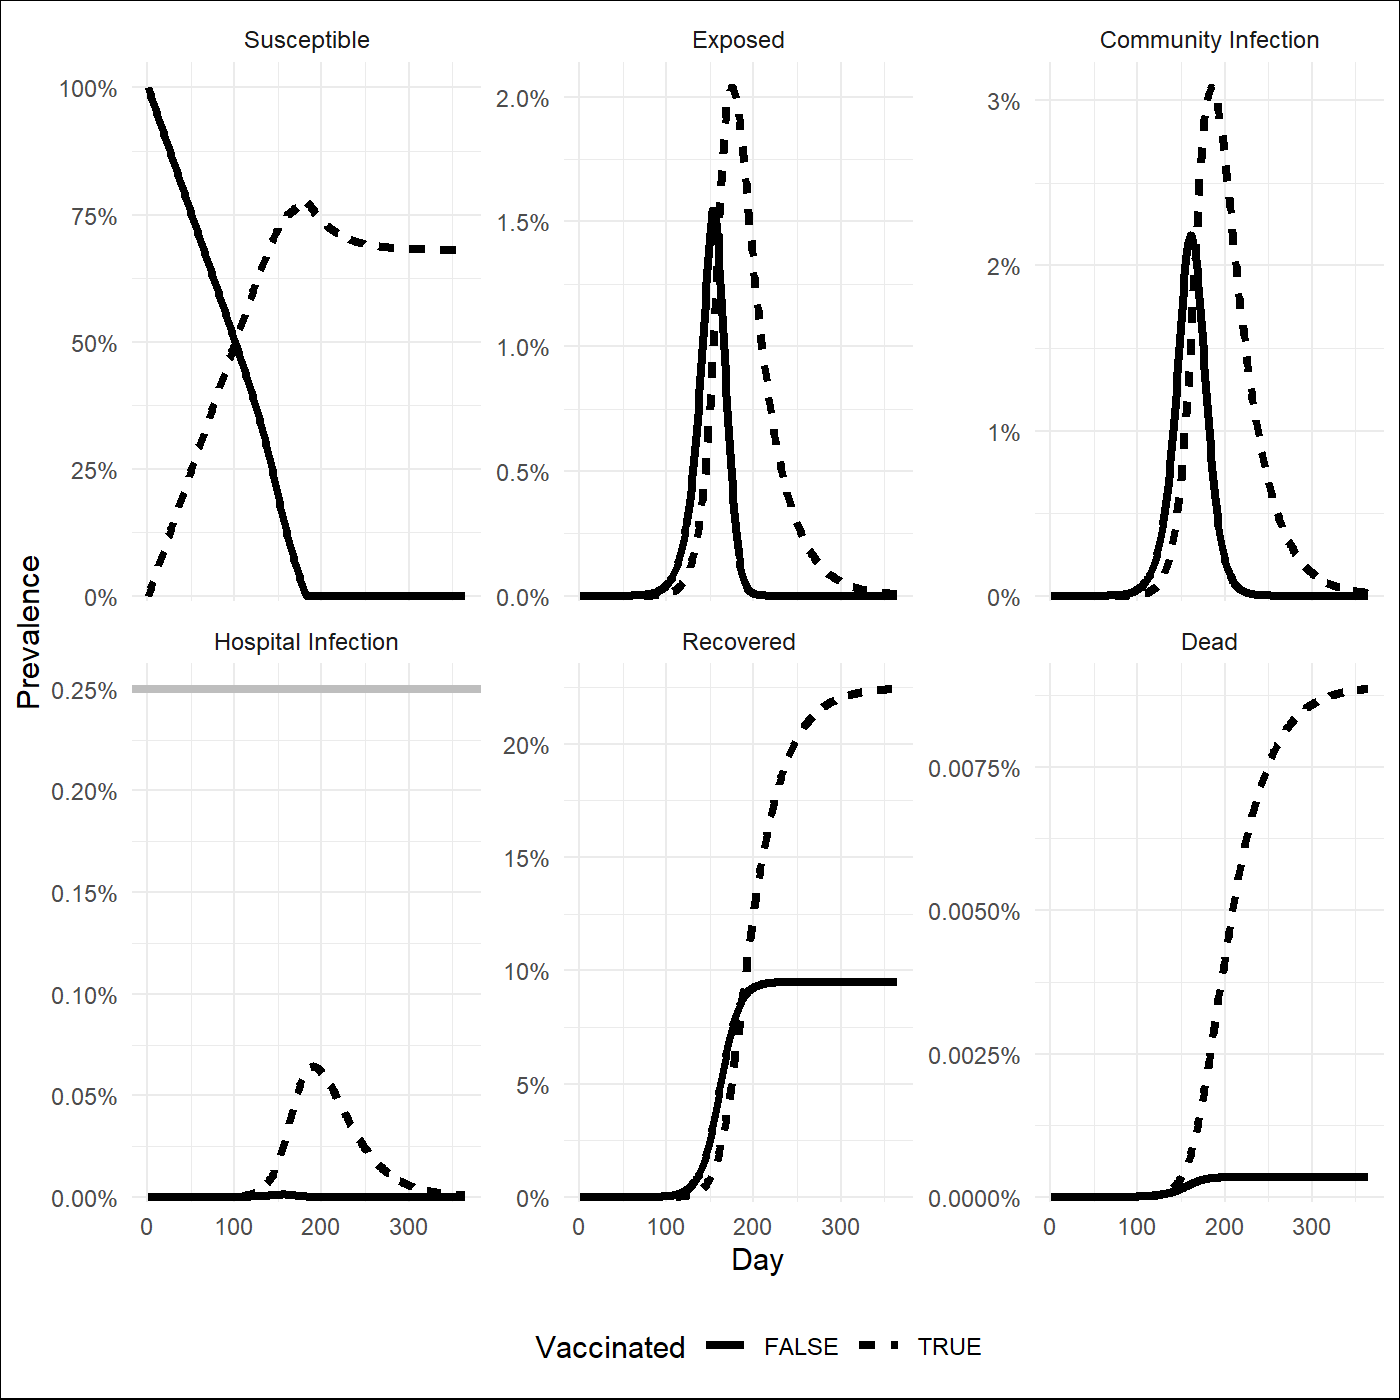
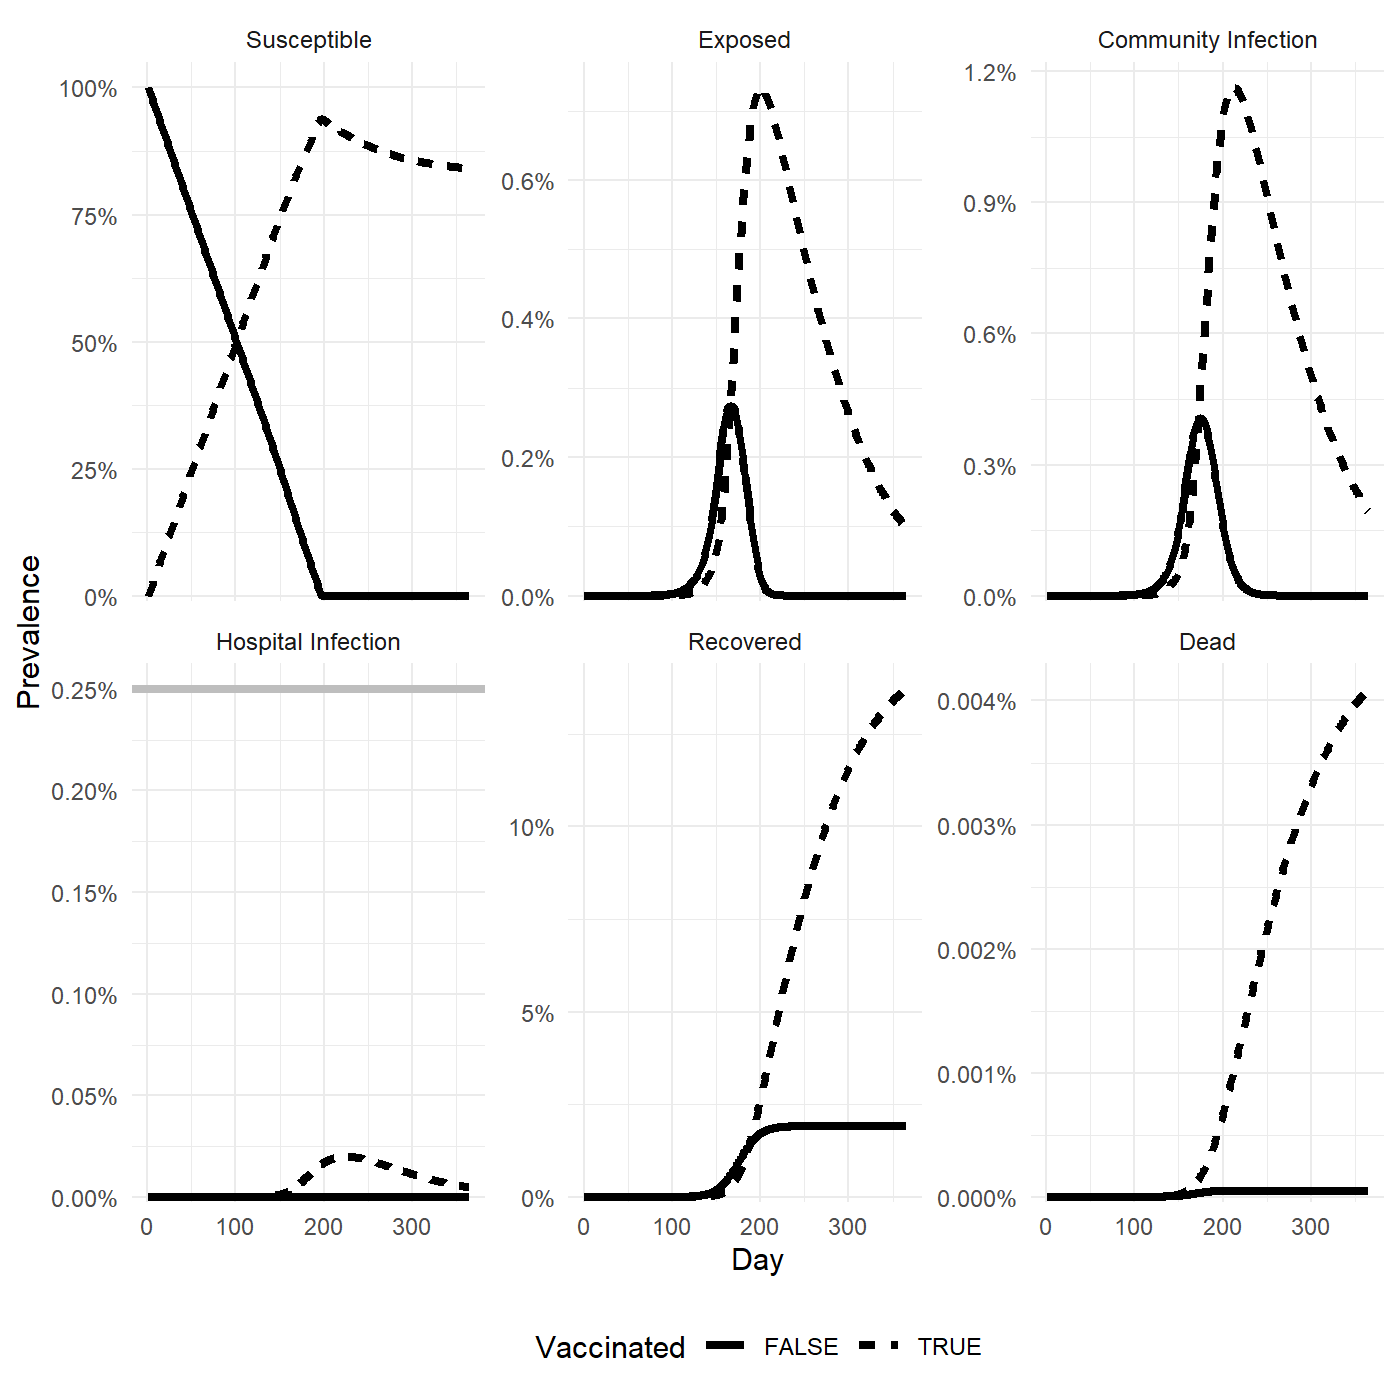
updated README

diff --git a/README.md b/README.md
@@ -16,19 +16,24 @@ Installation
 To install the development version from github:
 
 
-```r
+``` r
 remotes::install_github("finlaycampbell/simex", dependencies = TRUE, force = TRUE)
 ```
 
 Load the package using:
 
 
-```r
+``` r
 library("simex")
 ```
 
 Running *simex*
 -------------
+
+### Shiny App
+The simplest way to interact with the tool is to use the [Shiny
+App](https://portal.who.int/eios-colab/rconnect/simex). You can also launch this
+locally using `simex::run_shiny()`.
 
 ### Parameters and settings
 
@@ -50,7 +55,7 @@ their default values are given below:
 |hosp_duration           |The mean duration of stay in the hospital in days, either as a single value or as a vector of the same length as the number of age categories.                                                                                |seq(7, 21, length = 16)                      |
 |hosp_capacity           |Total hospital bed capacity given as a proportion of the population.                                                                                                                                                          |0.0025                                       |
 |comm_mortality          |The probability of death of cases that remain in the community, either as a single value or as a vector of the same length as the number of age categories.                                                                   |rep(0, 16)                                   |
-|vax_rate                |The daily rate of vaccination as a proportion of the population.                                                                                                                                                              |0                                            |
+|vax_rate                |The daily rate of vaccination as a proportion of the population.                                                                                                                                                              |0.001                                        |
 |vax_infectiousness      |The reduction (as a proportion) in infectioussness of an individual due to vaccination.                                                                                                                                       |0.3                                          |
 |vax_infection           |The protection (as a proportion) against infection provided by vaccination.                                                                                                                                                   |0.5                                          |
 |vax_hosp                |The protection (as a proportion) against hospitalisation provided by vaccination, given infection.                                                                                                                            |0.5                                          |
@@ -68,7 +73,7 @@ To run the model using default settings, specify a parameter object `par` and
 feed this into the `run_model` function.
 
 
-```r
+``` r
 ## set parameters using defaults
 pars <- get_parameters()
 
@@ -94,14 +99,14 @@ To visualise the results, use the generic `plot` function defined for the
 specified using the `what` argument.
 
 
-```r
+``` r
 ## visualise prevalence
 plot(output, what = "prevalence")
 ```
 
 <img src="figure/unnamed-chunk-6-1.png" width="75%" style="display: block; margin: auto;" />
 
-```r
+``` r
 ## visualise incidence
 plot(output, what = "incidence")
 ```
@@ -112,7 +117,7 @@ Hospital capacity can be displayed by toggling the `show_hosp_capacity`
 argument.
 
 
-```r
+``` r
 ## visualise prevalence with hospital capaciy
 plot(output, what = "prevalence", show_hosp_capacity = TRUE)
 ```
@@ -126,26 +131,26 @@ function with the optional `day` argument. In the example below, we display the
 summary statistics for day 150:
 
 
-```r
+``` r
 ## get summary at day 150
 summary(output, day = 150)
 ```
 
 |statistic                            |     value|
 |:------------------------------------|---------:|
-|incidence_last_7                     | 0.0158874|
-|incidence_cumulative                 | 0.2940323|
-|incidence_weekly_change              | 0.3805793|
-|death_last_7                         | 0.0000157|
-|death_cumulative                     | 0.0002300|
-|death_weekly_change                  | 0.8238843|
-|hosp_admission_last_7                | 0.0002737|
-|hosp_admission_cumulative            | 0.0043034|
-|hosp_admission_weekly_change         | 0.6649767|
-|hospital_occupancy                   | 1.0189239|
-|proportion_cases_hospitalised_last_7 | 0.0169349|
-|ifr_last_7                           | 0.0009868|
-|ifr_cumulative                       | 0.0007824|
+|incidence_last_7                     | 0.0026936|
+|incidence_cumulative                 | 0.0370007|
+|incidence_weekly_change              | 1.0051376|
+|death_last_7                         | 0.0000007|
+|death_cumulative                     | 0.0000103|
+|death_weekly_change                  | 1.0257307|
+|hosp_admission_last_7                | 0.0000211|
+|hosp_admission_cumulative            | 0.0002897|
+|hosp_admission_weekly_change         | 1.0261607|
+|hospital_occupancy                   | 0.0698724|
+|proportion_cases_hospitalised_last_7 | 0.0077865|
+|ifr_last_7                           | 0.0002768|
+|ifr_cumulative                       | 0.0002774|
 
 
 
@@ -178,22 +183,22 @@ day is done with `output$prevalence[250,,]`:
 ```
 ##         state
 ## age      S_u E_u C_u H_u R_u D_u S_v E_v C_v H_v R_v D_v
-##   age_1  1.2   0   0 0.0 4.3 0.0   0   0   0   0   0   0
-##   age_2  0.5   0   0 0.0 5.3 0.0   0   0   0   0   0   0
-##   age_3  0.3   0   0 0.0 5.9 0.0   0   0   0   0   0   0
-##   age_4  0.1   0   0 0.0 6.5 0.0   0   0   0   0   0   0
-##   age_5  0.5   0   0 0.0 6.0 0.0   0   0   0   0   0   0
-##   age_6  0.5   0   0 0.0 6.0 0.0   0   0   0   0   0   0
-##   age_7  0.6   0   0 0.0 6.4 0.0   0   0   0   0   0   0
-##   age_8  0.5   0   0 0.0 6.2 0.0   0   0   0   0   0   0
-##   age_9  0.5   0   0 0.0 6.0 0.0   0   0   0   0   0   0
-##   age_10 0.6   0   0 0.0 5.4 0.0   0   0   0   0   0   0
-##   age_11 0.7   0   0 0.0 5.4 0.1   0   0   0   0   0   0
-##   age_12 1.2   0   0 0.0 4.8 0.1   0   0   0   0   0   0
-##   age_13 2.4   0   0 0.0 3.7 0.1   0   0   0   0   0   0
-##   age_14 2.9   0   0 0.0 2.6 0.2   0   0   0   0   0   0
-##   age_15 2.7   0   0 0.0 1.7 0.2   0   0   0   0   0   0
-##   age_16 5.1   0   0 0.1 2.1 0.2   0   0   0   0   0   0
+##   age_1  1.3   0 0.1   0 4.1   0 0.0   0 0.0   0 0.0   0
+##   age_2  0.6   0 0.1   0 5.2   0 0.0   0 0.0   0 0.0   0
+##   age_3  0.3   0 0.1   0 5.8   0 0.0   0 0.0   0 0.0   0
+##   age_4  0.1   0 0.0   0 6.4   0 0.0   0 0.0   0 0.0   0
+##   age_5  0.6   0 0.1   0 5.9   0 0.0   0 0.0   0 0.0   0
+##   age_6  0.6   0 0.1   0 5.9   0 0.0   0 0.0   0 0.0   0
+##   age_7  0.7   0 0.1   0 6.2   0 0.0   0 0.0   0 0.0   0
+##   age_8  0.5   0 0.1   0 6.1   0 0.0   0 0.0   0 0.0   0
+##   age_9  0.1   0 0.1   0 5.9   0 0.4   0 0.0   0 0.0   0
+##   age_10 0.0   0 0.1   0 5.2   0 0.6   0 0.0   0 0.0   0
+##   age_11 0.0   0 0.1   0 5.2   0 0.8   0 0.0   0 0.0   0
+##   age_12 0.0   0 0.1   0 4.6   0 1.4   0 0.0   0 0.1   0
+##   age_13 0.0   0 0.0   0 2.4   0 3.2   0 0.1   0 0.6   0
+##   age_14 0.0   0 0.0   0 0.1   0 4.2   0 0.1   0 1.3   0
+##   age_15 0.0   0 0.0   0 0.0   0 3.6   0 0.0   0 0.9   0
+##   age_16 0.0   0 0.0   0 0.0   0 6.3   0 0.0   0 1.1   0
 ```
 
 Accessing the prevalence of the 1st age compartment (0-4) and 1st infectious
@@ -203,7 +208,7 @@ compartment (unvaccinated susceptible) for days 130 to 135 is done with
 
 ```
 ## day_130 day_131 day_132 day_133 day_134 day_135 
-##     5.3     5.3     5.3     5.2     5.2     5.2
+##     5.5     5.5     5.5     5.5     5.5     5.5
 ```
 
 The outputs can also be extracted in `tibble` form using the `extract` function,
@@ -211,32 +216,32 @@ once again using the `what` argument to specify whether prevalence or incidence
 is extracted.
 
 
-```r
+``` r
 ## extract prevalence
 extract(output, what = "prevalence")
 ```
 
 ```
 ## # A tibble: 4,380 × 4
-##      day vax   compartment        value
-##    <int> <lgl> <fct>              <dbl>
-##  1     1 FALSE S           1.00        
-##  2     1 FALSE E           0           
-##  3     1 FALSE C           0.0000000469
-##  4     1 FALSE H           0           
-##  5     1 FALSE R           0           
-##  6     1 FALSE D           0           
-##  7     1 TRUE  S           0           
-##  8     1 TRUE  E           0           
-##  9     1 TRUE  C           0           
-## 10     1 TRUE  H           0           
+##      day vax   compartment         value
+##    <int> <lgl> <fct>               <dbl>
+##  1     1 FALSE S           1.00         
+##  2     1 FALSE E           0            
+##  3     1 FALSE C           0.00000000293
+##  4     1 FALSE H           0            
+##  5     1 FALSE R           0            
+##  6     1 FALSE D           0            
+##  7     1 TRUE  S           0            
+##  8     1 TRUE  E           0            
+##  9     1 TRUE  C           0            
+## 10     1 TRUE  H           0            
 ## # ℹ 4,370 more rows
 ```
 If we want to filter this list for a sequence of days, we can then do basic
 dataframe manipulation:
 
 
-```r
+``` r
 ## define start and end days
 days_from <- 10
 days_to <- 20
@@ -251,16 +256,16 @@ df
 ## # A tibble: 132 × 4
 ##      day vax   compartment    value
 ##    <int> <lgl> <fct>          <dbl>
-##  1    10 FALSE S           1.00e+ 0
-##  2    10 FALSE E           5.69e- 8
-##  3    10 FALSE C           5.28e- 8
-##  4    10 FALSE H           8.70e-10
-##  5    10 FALSE R           3.95e- 8
-##  6    10 FALSE D           2.36e-11
-##  7    10 TRUE  S           0       
-##  8    10 TRUE  E           0       
-##  9    10 TRUE  C           0       
-## 10    10 TRUE  H           0       
+##  1    10 FALSE S           9.91e- 1
+##  2    10 FALSE E           3.60e- 9
+##  3    10 FALSE C           3.33e- 9
+##  4    10 FALSE H           5.35e-11
+##  5    10 FALSE R           2.48e- 9
+##  6    10 FALSE D           1.45e-12
+##  7    10 TRUE  S           9.00e- 3
+##  8    10 TRUE  E           2.10e-12
+##  9    10 TRUE  C           6.97e-13
+## 10    10 TRUE  H           2.06e-13
 ## # ℹ 122 more rows
 ```
 
@@ -271,7 +276,7 @@ can see that vaccination rate is specified using the `vax_rate` argument and
 set it to 0.5% of the population per day.
 
 
-```r
+``` r
 ## define vaccination rate
 pars <- get_parameters(vax_rate = 0.005)
 
@@ -298,7 +303,7 @@ previous run, and modify the compartments so half the susceptible population is
 assigned to the vaccinated compartment.
 
 
-```r
+``` r
 ## extract starting point from previous run
 state <- output$prevalence[1,,]
 
@@ -326,7 +331,7 @@ should be used from. In the example below, we introduce isolation measures with
 an adherence of 50% on the 125th day.
 
 
-```r
+``` r
 ## introduce isolation on the 125th day
 parlist <- list(
   "1" = get_parameters(),
@@ -355,7 +360,7 @@ the default scenario (no interventions) with the a scenario where isolation is
 introduced on the 125th day.
 	
 
-```r
+``` r
 ## define two scenarios, one without intervention and one with isolation
 parlists <- list(
   "No intervention" = get_parameters(),
